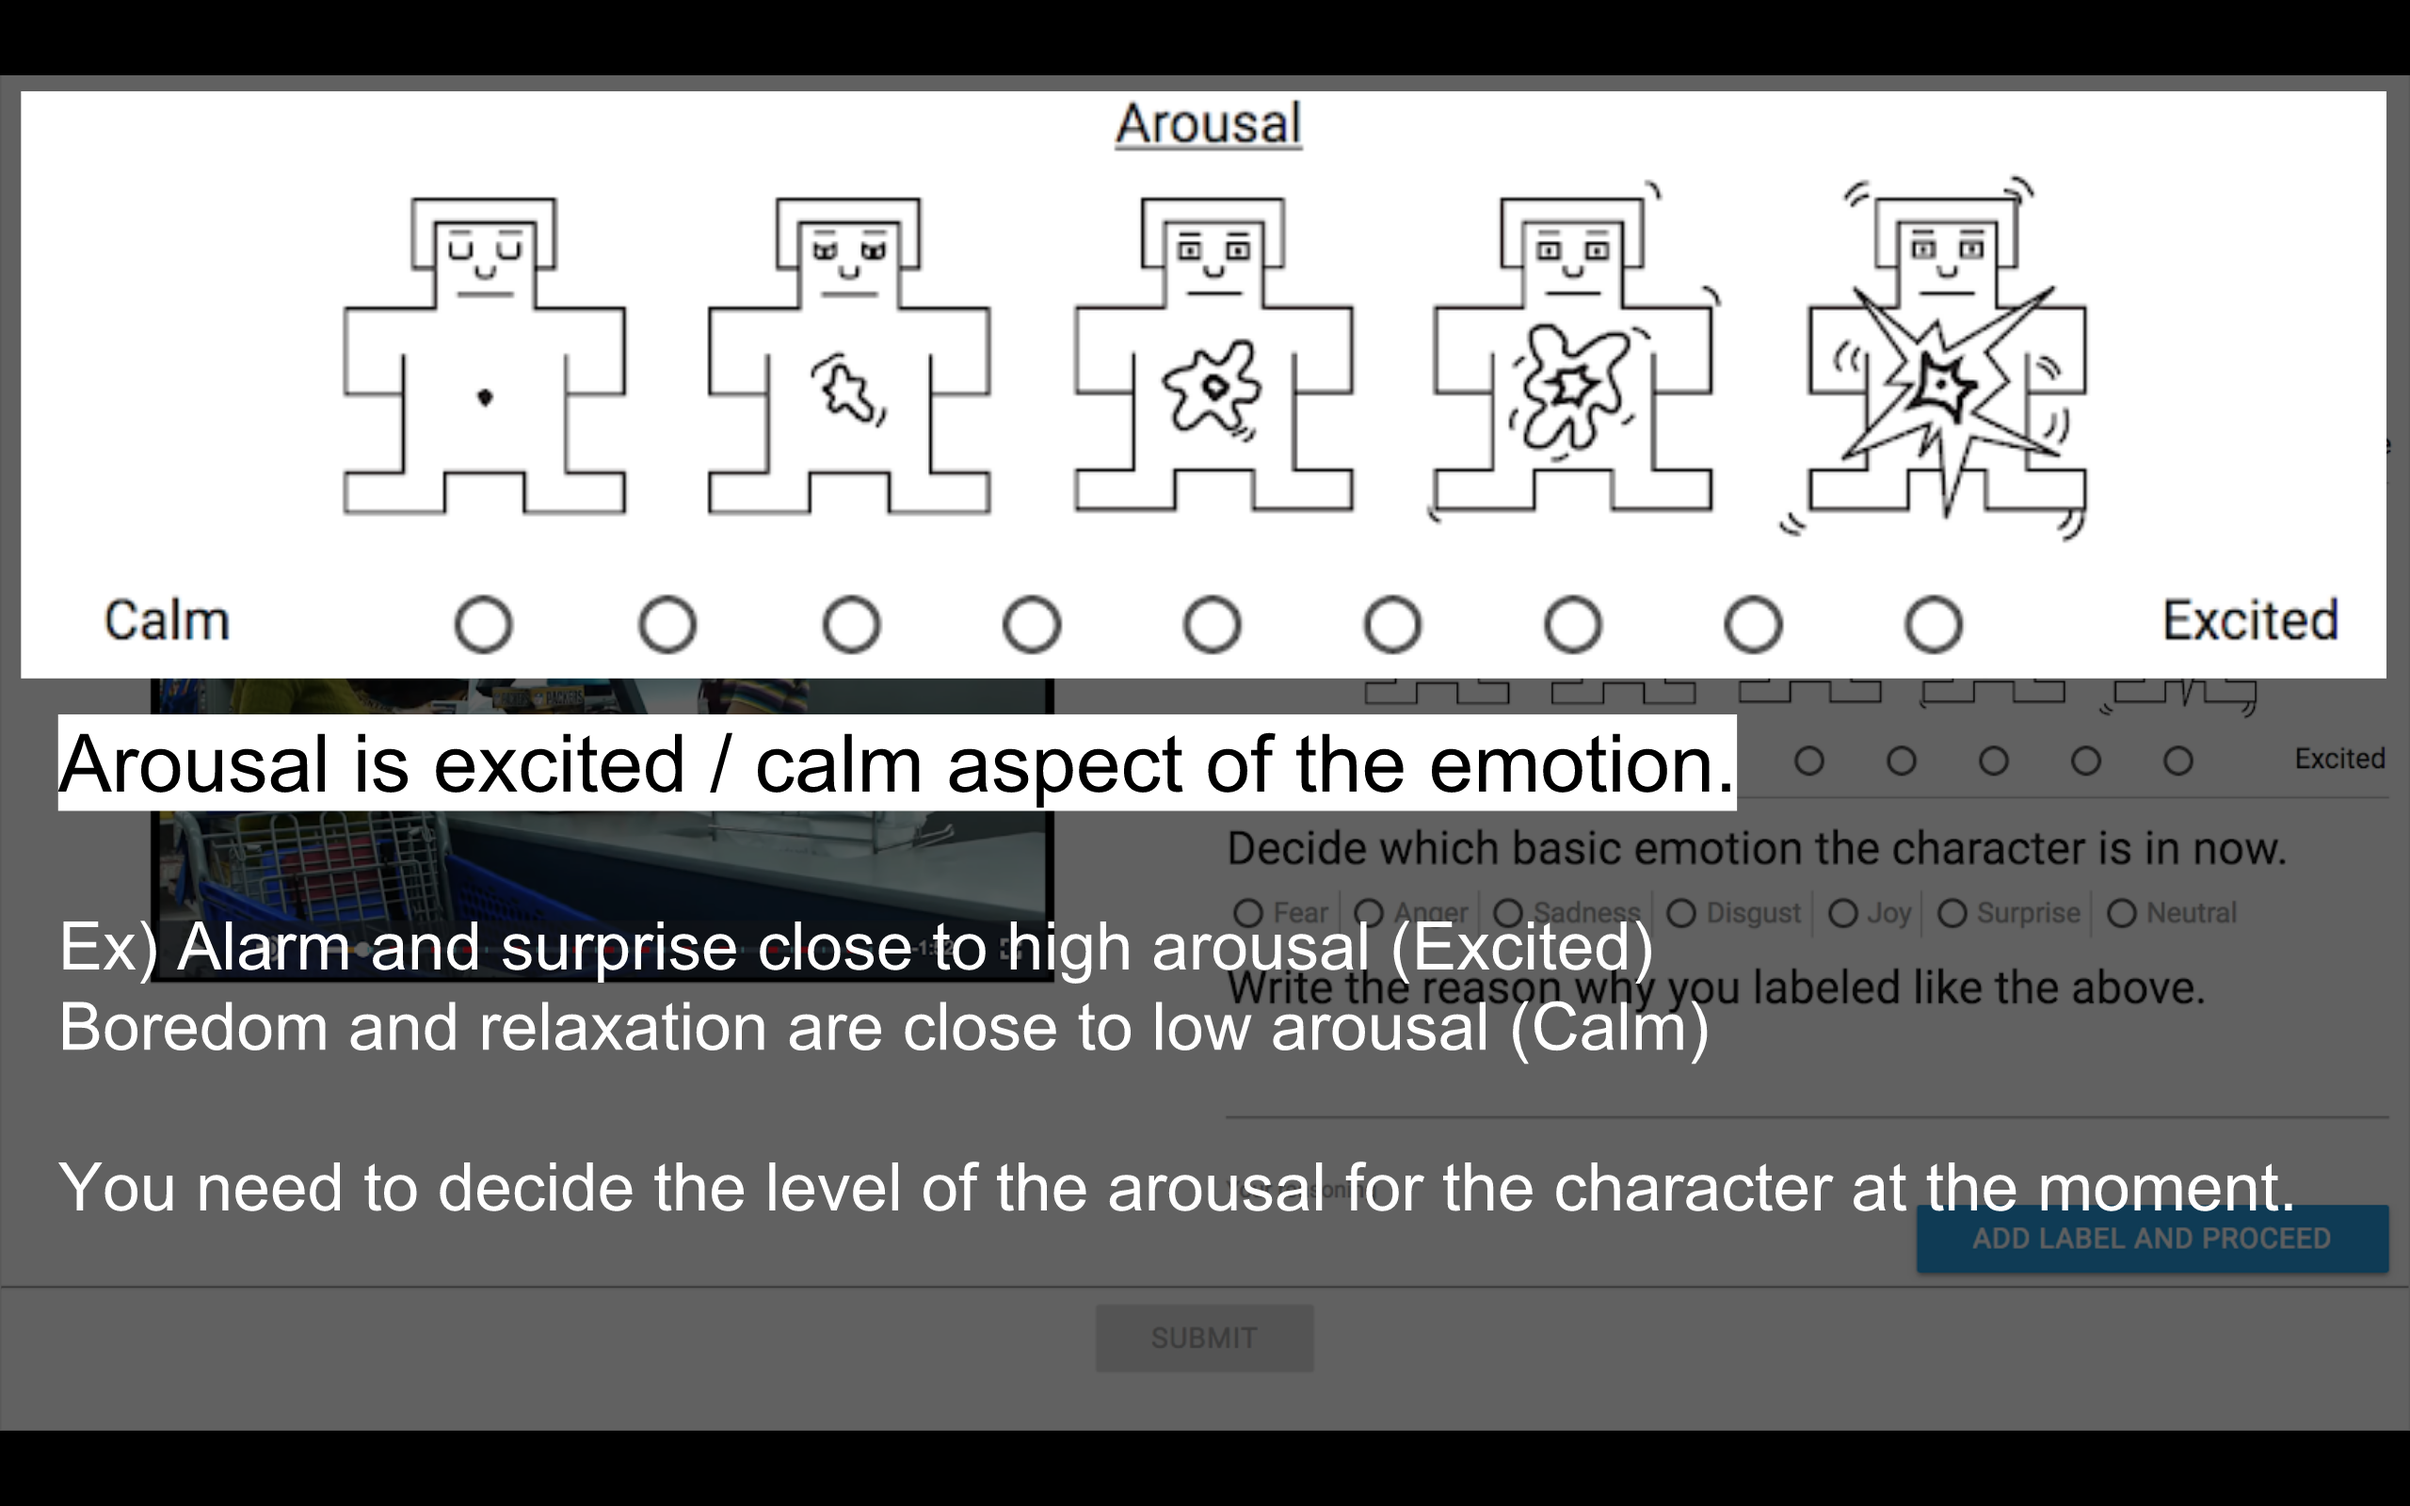
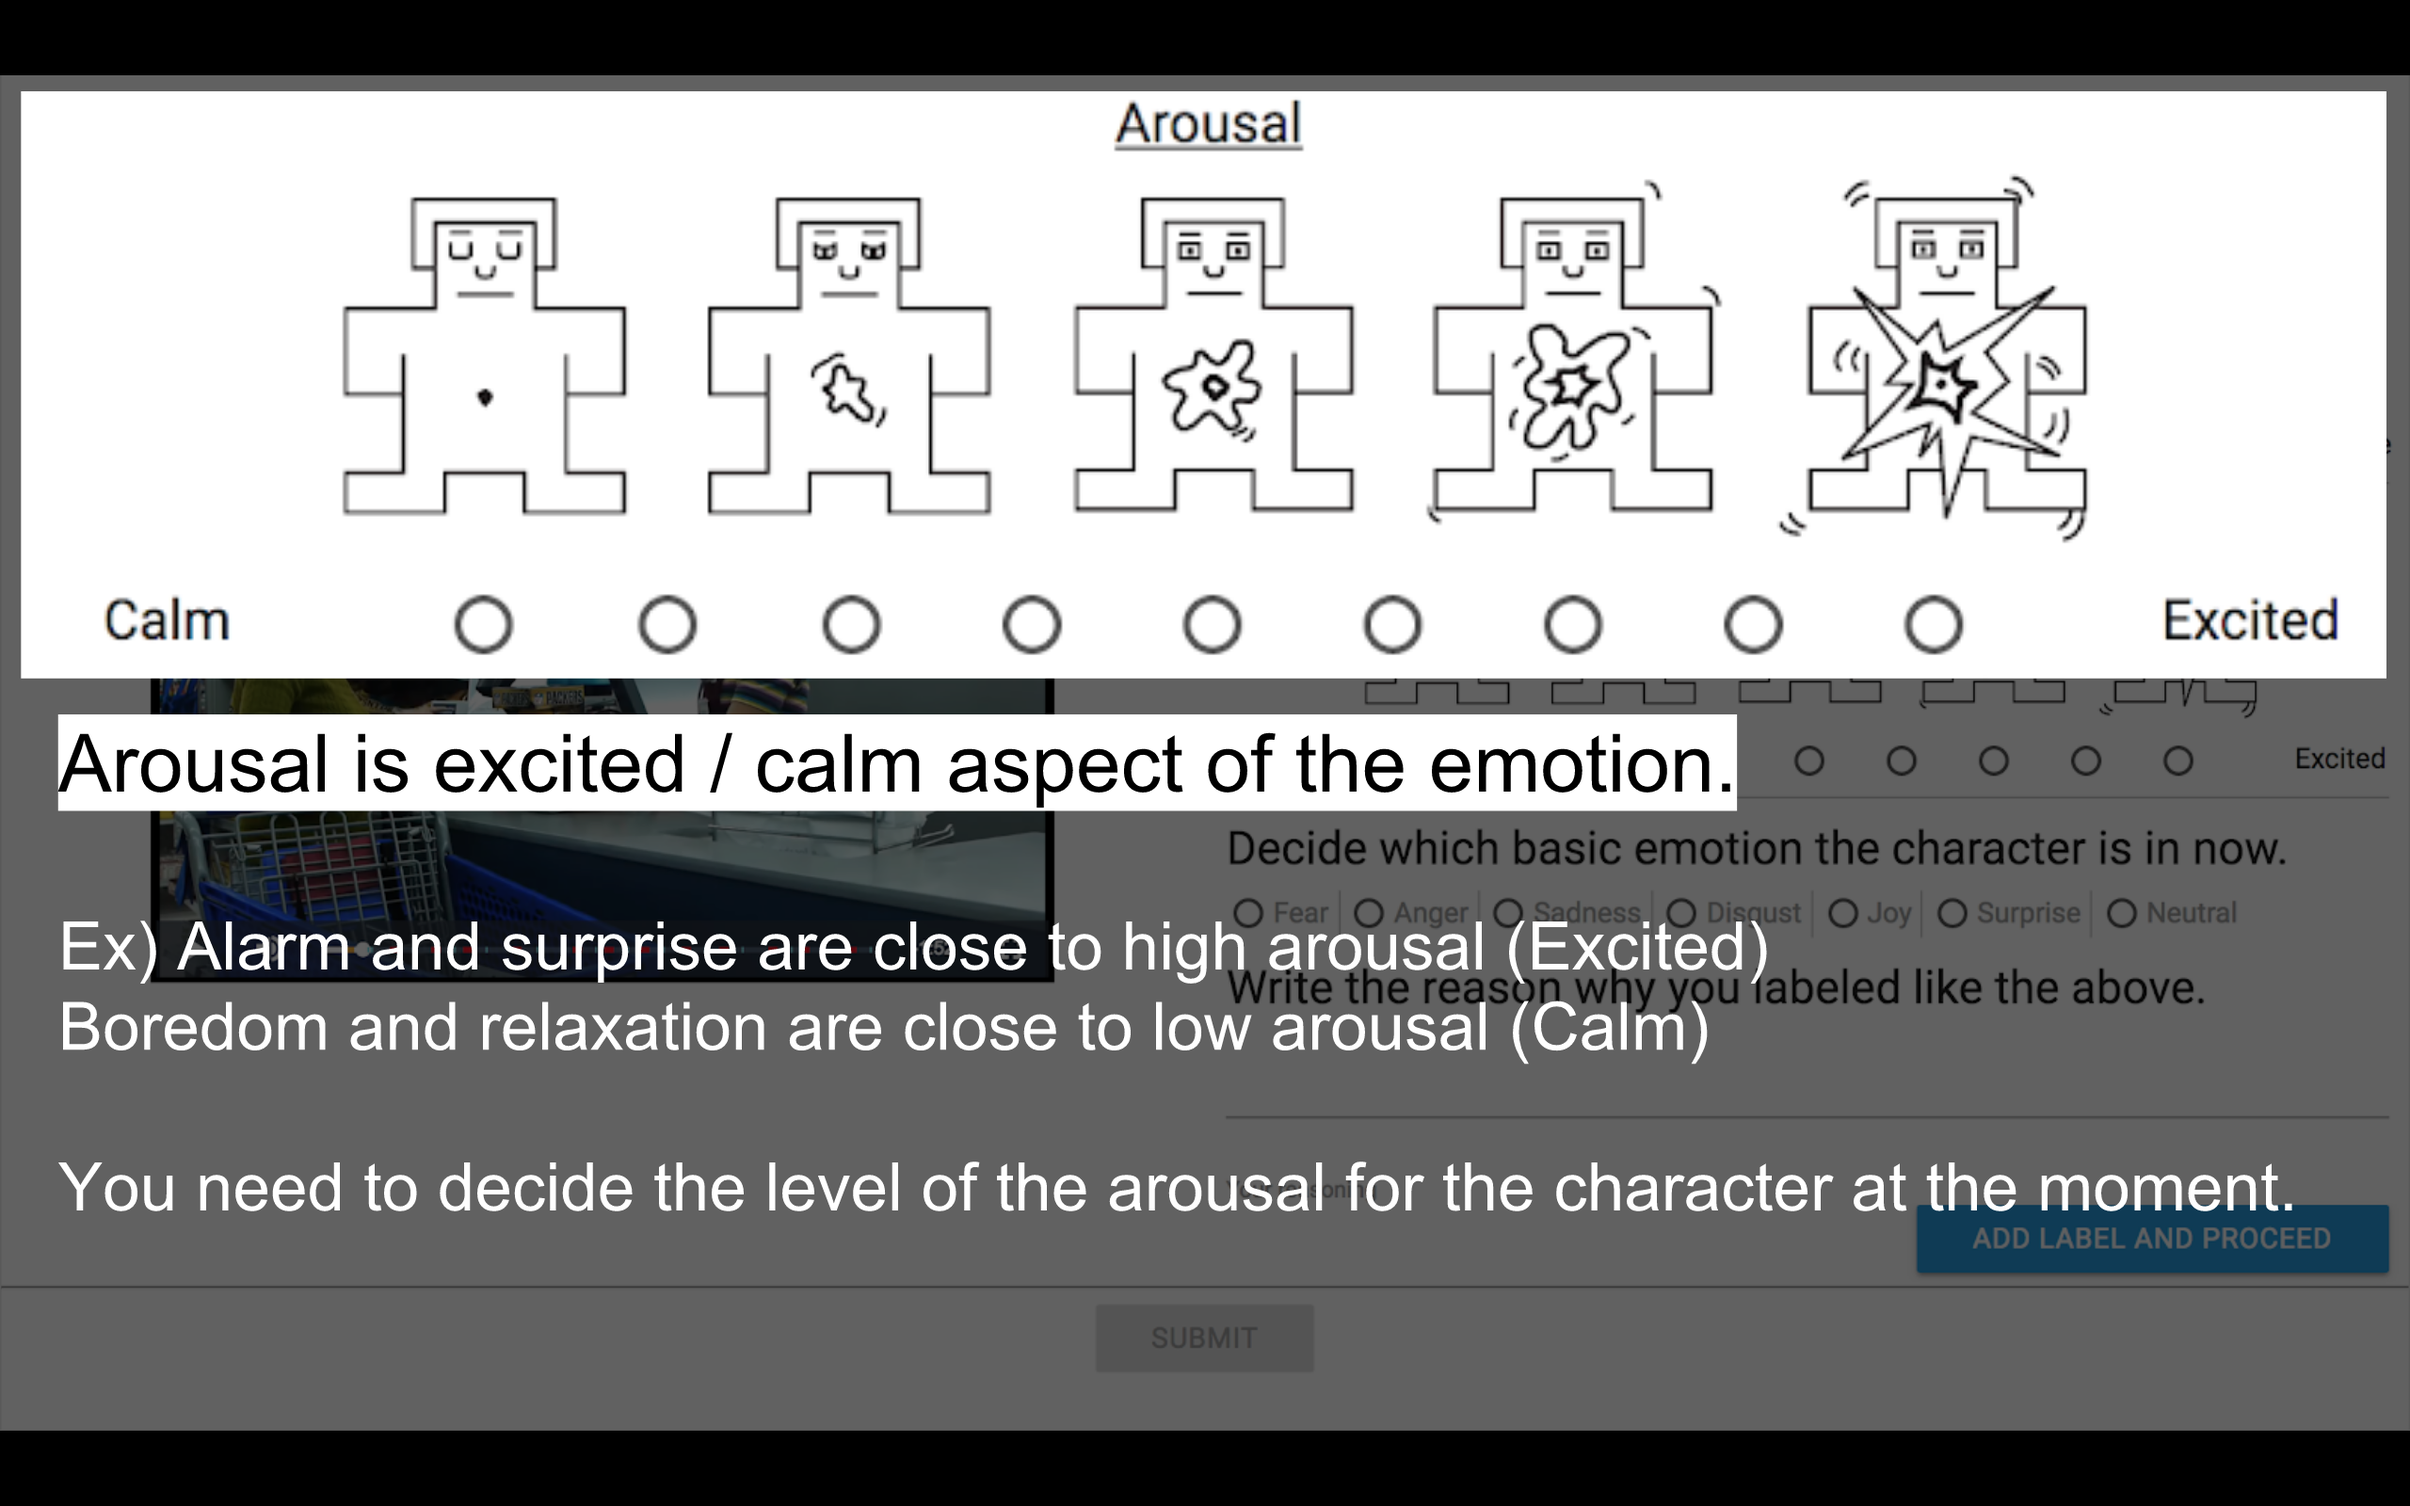
tutorial finalized

Changed region(s): [[0.3125, 0.5938, 0.75, 0.6562]]

diff --git a/emotion_labeling/templates/emotion_labeling_task.html b/emotion_labeling/templates/emotion_labeling_task.html
@@ -38,7 +38,9 @@ var step = "{{step}}"
             You will label the emotion of the character in the left, at the moment when the border of the video player blinks in red.
           <p>
           <p>
-            Emotion label includes <a class='modal-trigger' href="#tutorial" onclick="tuto_vue.jump_to_page(6)">Valence</a>, <a class='modal-trigger' href="#tutorial" onclick="tuto_vue.jump_to_page(7)">Arousal</a>, and <a class='modal-trigger' href="#tutorial" onclick="tuto_vue.jump_to_page(8)">Basic Emotion Class</a>.
+            Emotion label includes <a class='modal-trigger tooltipped' data-tooltip="Valence is positive / negative aspect of the emotion.<br>Ex) Joy is close to positive valence.<br>Anger and fear are close to negative valence" href="#tutorial" onclick="tuto_vue.jump_to_page(6)">Valence</a>,
+            <a class='modal-trigger tooltipped' data-tooltip="Arousal is excited / calm aspect of the emotion.<br>Ex) Alarm and surprise are close to high arousal (Excited)<br>Boredom and relaxation are close to low arousal (Calm)" href="#tutorial" onclick="tuto_vue.jump_to_page(7)">Arousal</a>, and
+            <a class='modal-trigger tooltipped' data-tooltip="Fear, Anger, Sadness, Disgust, Joy, Surprise, Neutral" href="#tutorial" onclick="tuto_vue.jump_to_page(8)">Basic Emotion Class</a>.
           </p>
           <p v-if="condition=='experiment_reasoning'">
             You will also give the reason why you labeled the emotion of the character like you did.

diff --git a/emotion_labeling/static/js/tutorial.js b/emotion_labeling/static/js/tutorial.js
@@ -71,5 +71,6 @@ $(document).ready(function(){
   document.getElementById('tuto_img').onload = function(){
     tuto_vue.loaded = true;
   }
-  
+  $(".tooltipped").tooltip({html: true});
+
 })
